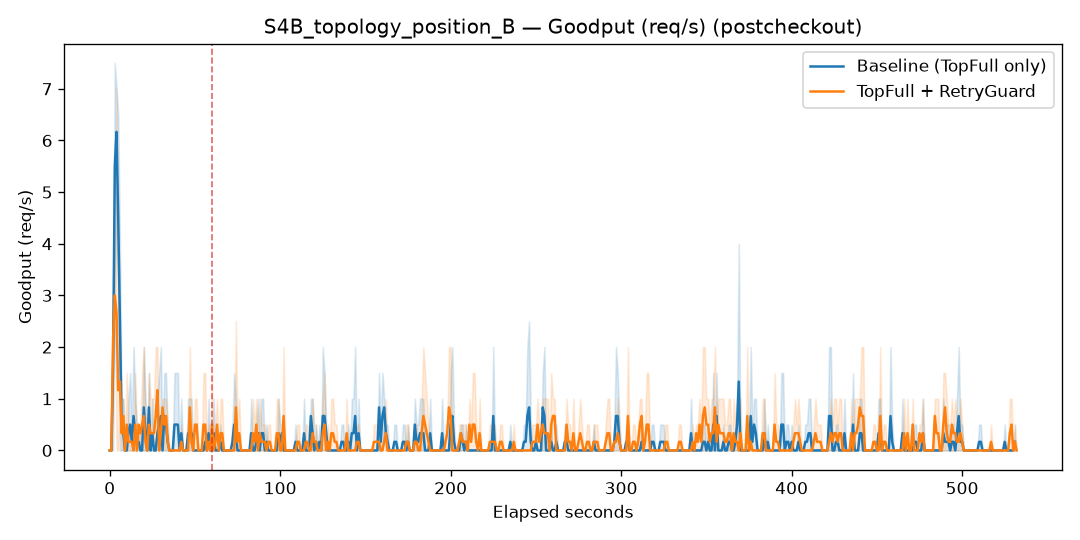
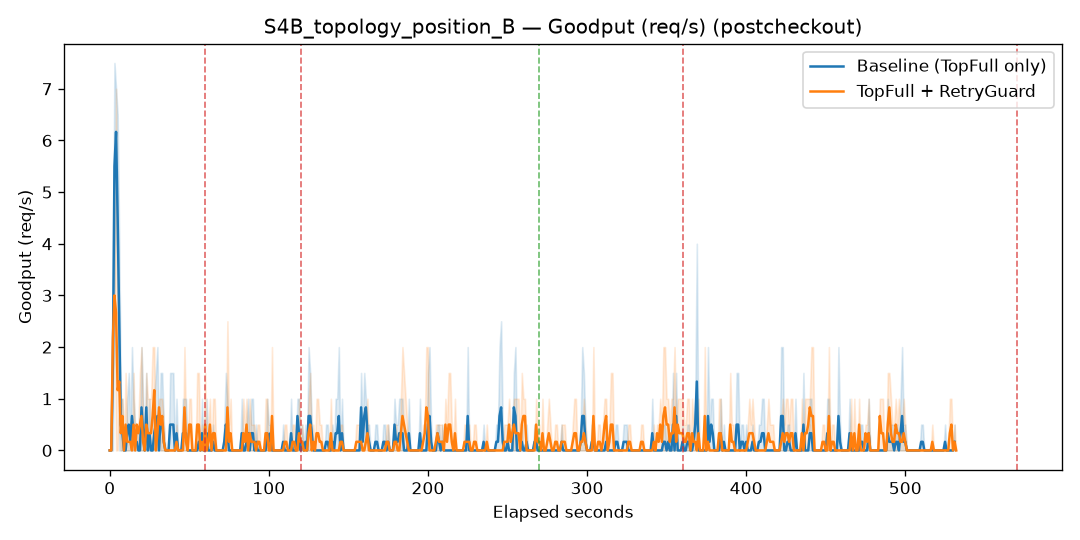
fix: overlay RetryGuard toggles from every repeat, not just the first log
S4B run6 re-enable was invisible because charts used only run4's retryguard.log.

diff --git a/experiments/test_mentor_charts.py b/experiments/test_mentor_charts.py
@@ -202,5 +202,75 @@ class TestGenerateS5S6Merge(unittest.TestCase):
             self.assertIn("10s", timeline_path.read_text(encoding="utf-8"))
 
 
+def _write_retryguard_log(
+    run_dir: Path,
+    events: list[tuple[str, str, str]],
+) -> None:
+    """Write a parseable retryguard.log.
+
+    ``events`` is a list of (iso_timestamp, service, direction) after a
+    START line. Pass an empty list for a START-only log.
+    """
+    run_dir.mkdir(parents=True, exist_ok=True)
+    lines = ["2026-09-05T16:52:18Z  START  threshold=0.20\n"]
+    for ts, service, direction in events:
+        extra = (
+            "rejection=0.60  consecutive_high=2  attempts=0"
+            if direction == "ON→OFF"
+            else "rejection=0.05  consecutive_low=3  attempts=3"
+        )
+        lines.append(f"{ts}  {service}  {direction}   {extra}\n")
+    (run_dir / "retryguard.log").write_text("".join(lines), encoding="utf-8")
+
+
+class TestCollectToggleEvents(unittest.TestCase):
+    def test_includes_off_to_on_from_later_repeat(self):
+        with tempfile.TemporaryDirectory() as tmp:
+            run1 = Path(tmp) / "run1"
+            run2 = Path(tmp) / "run2"
+            _write_retryguard_log(
+                run1,
+                [("2026-09-05T16:53:18Z", "checkoutservice", "ON→OFF")],
+            )
+            _write_retryguard_log(
+                run2,
+                [("2026-09-05T16:58:18Z", "cartservice", "OFF→ON")],
+            )
+
+            events = mc._collect_toggle_events([run1, run2])
+
+            directions = {(e["service"], e["direction"]) for e in events}
+            self.assertIn(("checkoutservice", "ON→OFF"), directions)
+            self.assertIn(("cartservice", "OFF→ON"), directions)
+            elapsed = [e["elapsed_seconds"] for e in events]
+            self.assertEqual(elapsed, sorted(elapsed))
+
+    def test_deduplicates_same_service_direction_elapsed_across_repeats(self):
+        with tempfile.TemporaryDirectory() as tmp:
+            run_dirs = []
+            for n in (1, 2, 3):
+                run_dir = Path(tmp) / f"run{n}"
+                _write_retryguard_log(
+                    run_dir,
+                    [("2026-09-05T16:53:18Z", "checkoutservice", "ON→OFF")],
+                )
+                run_dirs.append(run_dir)
+
+            events = mc._collect_toggle_events(run_dirs)
+
+            self.assertEqual(len(events), 1)
+            self.assertEqual(events[0]["service"], "checkoutservice")
+            self.assertEqual(events[0]["direction"], "ON→OFF")
+            self.assertAlmostEqual(events[0]["elapsed_seconds"], 60.0)
+
+    def test_returns_empty_list_when_no_logs(self):
+        with tempfile.TemporaryDirectory() as tmp:
+            run_dirs = [Path(tmp) / "run1", Path(tmp) / "run2"]
+            for run_dir in run_dirs:
+                run_dir.mkdir()
+
+            self.assertEqual(mc._collect_toggle_events(run_dirs), [])
+
+
 if __name__ == "__main__":
     unittest.main()

diff --git a/experiments/mentor_charts.py b/experiments/mentor_charts.py
@@ -75,12 +75,21 @@ def _load_group_average(run_dirs: list[Path], csv_name: str, metric: str) -> "pd
     return averaged
 
 
-def _first_toggle_events(run_dirs: list[Path]) -> list[dict]:
+def _collect_toggle_events(run_dirs: list[Path]) -> list[dict]:
+    collected: list[dict] = []
+    seen: set[tuple[str, str, int]] = set()
     for run_dir in run_dirs:
         log_path = run_dir / "retryguard.log"
-        if log_path.exists():
-            return mcd.parse_toggle_events(log_path)
-    return []
+        if not log_path.exists():
+            continue
+        for event in mcd.parse_toggle_events(log_path):
+            key = (event["service"], event["direction"], round(event["elapsed_seconds"]))
+            if key in seen:
+                continue
+            seen.add(key)
+            collected.append(event)
+    collected.sort(key=lambda e: e["elapsed_seconds"])
+    return collected
 
 
 def generate_simple_scenario(
@@ -95,7 +104,7 @@ def generate_simple_scenario(
     scenario_dir = campaign_root / scenario_key
     baseline_dirs = mcd.find_run_dirs(scenario_dir, config["baseline_prefix"])
     rg_dirs = mcd.find_run_dirs(scenario_dir, config["rg_prefix"])
-    toggle_events = _first_toggle_events(rg_dirs)
+    toggle_events = _collect_toggle_events(rg_dirs)
 
     for metric, ylabel in _METRIC_LABELS.items():
         baseline_avg = _load_group_average(baseline_dirs, "total.csv", metric)
@@ -125,7 +134,7 @@ def generate_bottleneck_scenario(
     scenario_dir = campaign_root / scenario_key
     baseline_dirs = mcd.find_run_dirs(scenario_dir, config["baseline_prefix"])
     rg_dirs = mcd.find_run_dirs(scenario_dir, config["rg_prefix"])
-    toggle_events = _first_toggle_events(rg_dirs)
+    toggle_events = _collect_toggle_events(rg_dirs)
 
     for metric, ylabel in _METRIC_LABELS.items():
         baseline_avg = _load_group_average(baseline_dirs, bottleneck_csv, metric)

diff --git a/Guides and Info/mentor-update/MENTOR-UPDATE.md b/Guides and Info/mentor-update/MENTOR-UPDATE.md
@@ -149,7 +149,7 @@ Per-position bottleneck-endpoint detail:
 **What we observe:**
 - On system-wide goodput and rejection, the baseline–RetryGuard gap is larger in B than in A. A both hold ~200 req/s / ~0.65 rejection (RetryGuard smoother; baseline has periodic dips to ~150 req/s). B has RetryGuard holding ~480–530 req/s with rejection ~0.05–0.15, while baseline sags after ~200s (wide min/max band) and rejection ~0.1–0.25.
 - S4A charts show a red `ON→OFF` at ~60s; every S4A RetryGuard repeat disables `cartservice`, `checkoutservice`, and `productcatalogservice` together. S4B charts also show a red `ON→OFF` at ~60s; run4 and run5 disable `checkoutservice` only, while run6 also disables `cartservice` and `productcatalogservice`.
-- Neither S4 overlay shows a green `OFF→ON`. S4A logs have no re-enable on any repeat. S4B run6 logs one `cartservice` `OFF→ON` (then `cartservice` `ON→OFF` again) under this flat hold.
+- The side-by-side S4 PNG has no toggle overlays (that plot does not draw them). S4A endpoint charts have no green `OFF→ON` — S4A logs have no re-enable on any repeat. S4B endpoint charts show a green `cartservice` `OFF→ON` from run6 (then `cartservice` `ON→OFF` again) under this flat hold.
 
 Additional endpoint-level charts: `charts_gallery/S4A_topology_position_A/` and `charts_gallery/S4B_topology_position_B/`.
 
